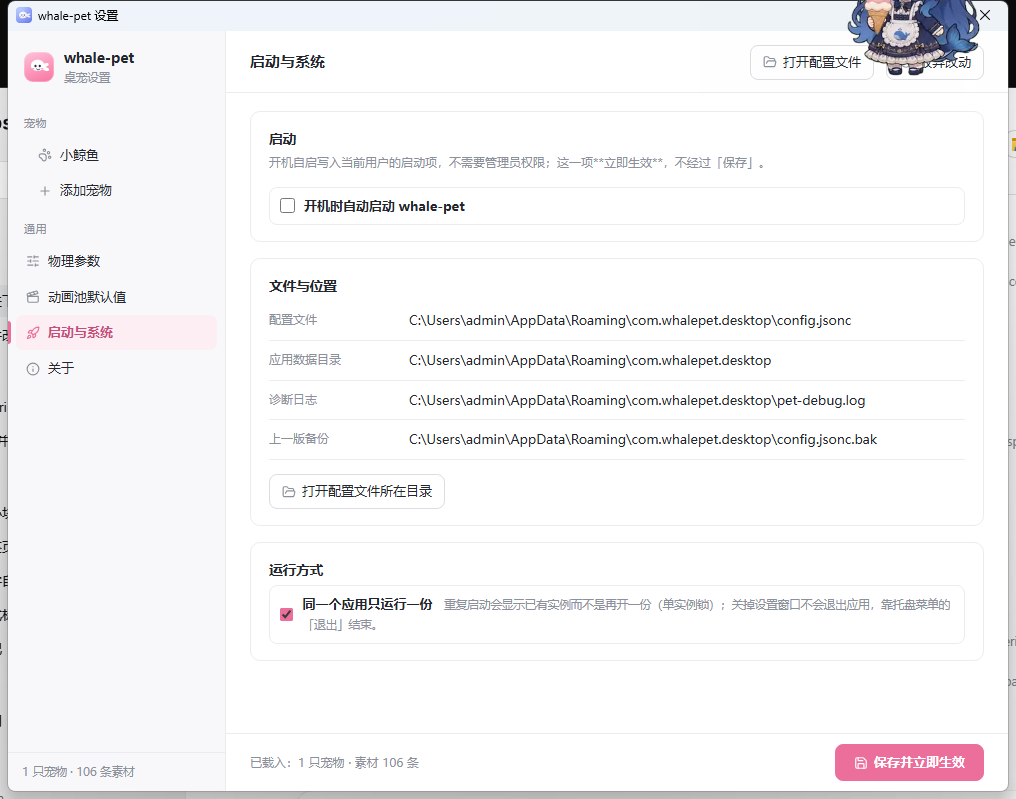
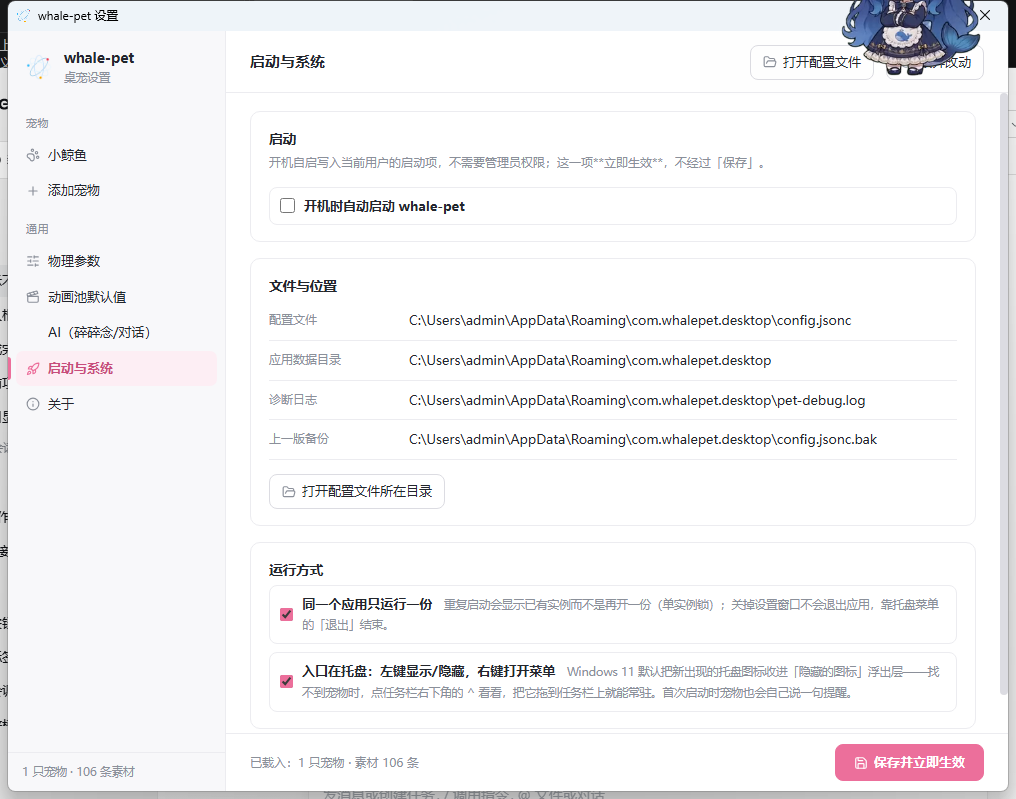
装机体验与打包卫生（A 组四条全做）
① 安装包里剔掉开发工具（MSI 的 File 表实锤 Bin_logic_smoke，1.4 MB，普通用户用不到）
- src/bin/ 下的 logic-smoke.rs 与 mock-llm.rs 整体 git mv 到 examples/：bin 目标会被打包器枚举，
  example 不会（cargo build 默认也不编译它们）；用法只多一个词（cargo run --example …）
- 证据：产物 62.3→61.7 MB（NSIS）/ 63.6→62.8 MB（MSI）；新 wxs 里搜 logic-smoke/mock-llm 无命中，
  同时核对 WebView2Loader.dll 仍在文件列表里（DEVELOPMENT §三 坑 1 没被碰坏）
- 文档里的 --bin 写法（DEVELOPMENT/README）同步改成 --example；历史小节保留原样

② 版本号四处防呆（冒烟新增第 15 组）
- Cargo.toml / tauri.conf.json / package.json / 设置页「关于」那一行必须一致
  （出 1.0.0 时 DEVELOPMENT 里就漏过一处，这类不一致对外可见）
- 正反两面都跑过：正常通过；把 package.json 改成 1.0.1 → 断言失败并打印四处各自的值
- 冒烟总数 114 → 115

③ 首次运行引导（Win11 会把新托盘图标收进「隐藏的图标」，装完容易找不到入口）
- lib.rs::hint_first_run：第一次启动 2.5s 后让宠物用碎碎念那条气泡链路说一句怎么找入口；
  标记文件写在数据目录（first-run-hint，内容=版本号），说出口之后才写（秒退则下次再说），
  排障/自测（WHALE_PET_DIAG*/WHALE_PET_AUTOTEST）时跳过以免跑进探针截图
- 设置 · 启动与系统新增一行「入口在托盘：左键显示/隐藏，右键打开菜单」+ 怎么拖到任务栏常驻
- 证据：日志（首次运行提示已显示 + 气泡: 显示…时长 10000ms）、标记文件内容 1.0.0、二次启动不再提示、
  两张截图（气泡 / 设置页）已进 docs/screenshots

④ 真机装一次包（此前一直是绕过 NSIS 换 exe，三件事都悬着）
- 静默覆盖安装：setup.exe /S /D=D:\software\whale-pet → 退出码 0
- 注册表 DisplayVersion 0.1.0 → 1.0.0（「程序和功能」对上了）；uninstall.exe 重新生成；
  WebView2Loader.dll 由新安装器写入（坑 1 的疑问闭环）；快捷方式仍指向安装目录
- 顺手清掉旧安装留下的 logic-smoke.exe 与之前手工备份的 .old-0.1.0
- 右键菜单生产版观感回归：WHALE_PET_DIAG_PRESS=right + 截图，白底圆角面板正常
  （页面 URL 是 http://tauri.localhost/…，确认跑的是内嵌资源的生产构建）→ 18 节那条闭环

踩坑（都写进 DEVELOPMENT §三 了）
- .NET 的相对路径按「进程工作目录」解析（cd 不影响），WriteAllText($p,$null) 会造出 0 字节文件：
[…]

diff --git a/src/settings-page.ts b/src/settings-page.ts
@@ -813,6 +813,17 @@ function renderSystemPage(): HTMLElement {
       showToast('这一项是固定行为，不需要配置');
     }),
   );
+  single.appendChild(
+    checkRow(
+      true,
+      '入口在托盘：左键显示/隐藏，右键打开菜单',
+      'Windows 11 默认把新出现的托盘图标收进「隐藏的图标」浮出层——找不到宠物时，点任务栏右下角的 ^ 看看，' +
+        '把它拖到任务栏上就能常驻。首次启动时宠物也会自己说一句提醒。',
+      () => {
+        showToast('这一项是固定行为，不需要配置');
+      },
+    ),
+  );
   host.appendChild(single);
   return host;
 }

diff --git a/src-tauri/examples/logic-smoke.rs b/src-tauri/examples/logic-smoke.rs
@@ -1,14 +1,21 @@
 //! 纯逻辑冒烟检查（可执行文件，不依赖 Rust 测试 harness）。
 //!
-//! 为什么要单独做这么一个 bin：
+//! 为什么要单独做这么一个工具：
 //!   本机是 MinGW-w64 + `x86_64-pc-windows-gnu` 工具链，`cargo test` 生成的 libtest
 //!   可执行文件在启动时会被 Windows 加载器拒绝（`0xC0000139 STATUS_ENTRYPOINT_NOT_FOUND`），
 //!   而同一个 crate 编出来的主程序能正常运行——导入表逐项比对完全一致，属于工具链/环境
 //!   层面的问题，不是代码问题。为了让「配置解析、校验、路径防穿越、几何换算」这些纯逻辑
-//!   **真的被执行到**（而不是只通过编译），这里用普通 bin 把它们跑一遍。
+//!   **真的被执行到**（而不是只通过编译），这里用普通程序把它们跑一遍。
 //!
-//! 运行：cargo run --bin logic-smoke
+//! 运行：cargo run --example logic-smoke
 //! 退出码：0 = 全部通过；1 = 有失败（并打印失败项）
+//!
+//! ## 为什么放在 `examples/` 而不是 `src/bin/`
+//!
+//! 它和 `mock-llm` 原先都是 bin 目标，结果 **`logic-smoke.exe` 被 Tauri 一起打进了
+//! 安装包**（MSI 的 File 表里能查到 `Bin_logic_smoke`，1.4 MB）——普通用户拿到一个
+//! 不知道干什么的 exe，既占体积又容易被杀软盯上。改成 example 之后 `cargo build`
+//! 默认**不编译**它们，打包自然也就带不上了（用法只多了 `--example` 这个词）。
 
 use whale_pet_desktop_lib::config::{load_config, AppConfig};
 use whale_pet_desktop_lib::model::{PhysicsParams, Rect};
@@ -797,12 +804,54 @@ fn main() {
         );
     }
 
+    // ---- 15. 版本号四处一致 ----
+    // 版本号写在四个地方，出包用的是 tauri.conf.json、界面上显示的是 settings-page.ts 那一行，
+    // 少改一处就会出现"安装包叫 1.0.0、关于页写着 0.1.0"这种对外可见的不一致。
+    // （2026-09-21 出 1.0.0 时真发生过：DEVELOPMENT 里也漏了一处，见 VERIFICATION 第 23/24 节。）
+    println!("\n[15] 版本号四处一致");
+    {
+        let manifest = env!("CARGO_MANIFEST_DIR");
+        let cargo_version = env!("CARGO_PKG_VERSION").to_string();
+        let tauri_version = read_json_field(&format!("{manifest}/tauri.conf.json"), "version");
+        let pkg_version = read_json_field(&format!("{manifest}/../package.json"), "version");
+        let ui_version = std::fs::read_to_string(format!("{manifest}/../src/settings-page.ts"))
+            .ok()
+            .and_then(|text| {
+                // 界面上那一行长这样：el('strong', undefined, 'whale-pet 1.0.0')
+                // 注意别抓到别处的 `'whale-pet …'`（"关于"页的描述文案也以它开头），
+                // 所以要求引号里剩下的部分**以数字开头**（版本号）
+                text.lines().find_map(|line| {
+                    let rest = line.split("'whale-pet ").nth(1)?;
+                    let value = rest.split('\'').next()?;
+                    value.starts_with(|c: char| c.is_ascii_digit()).then(|| value.to_string())
+                })
+            });
+
+        check(
+            "Cargo.toml / tauri.conf.json / package.json / 关于页 四处版本号一致",
+            tauri_version.as_deref() == Some(cargo_version.as_str())
+                && pkg_version.as_deref() == Some(cargo_version.as_str())
+                && ui_version.as_deref() == Some(cargo_version.as_str()),
+            &format!(
+                "Cargo.toml={cargo_version} tauri.conf.json={:?} package.json={:?} 关于页={:?}（改版本号要四处一起改）",
+                tauri_version, pkg_version, ui_version
+            ),
+        );
+    }
+
     // SAFETY: 单线程
     let (passed, failed) = unsafe { (PASSED, FAILED) };
     println!("\n=== 结果：通过 {passed} 项，失败 {failed} 项 ===");
     if failed > 0 {
         std::process::exit(1);
     }
+}
+
+/// 从 JSON 文件里取一个**顶层**字符串字段（版本号用；失败返回 None，由断言报出来）
+fn read_json_field(path: &str, field: &str) -> Option<String> {
+    let text = std::fs::read_to_string(path).ok()?;
+    let value: serde_json::Value = serde_json::from_str(&text).ok()?;
+    value.get(field)?.as_str().map(str::to_string)
 }
 
 /// 规范化 JSON：递归按键名排序后序列化。

diff --git a/src-tauri/src/lib.rs b/src-tauri/src/lib.rs
@@ -302,9 +302,14 @@ match config::ensure_sample_animations(&app_data_dir) {
     reload::mark_stamp_current(&config_path);
     eprintln!("[whale-pet] 配置热重载已就绪（每 {}ms 检查一次文件变化）", reload::POLL_MS);
 
+    // ---- 5.7 首次运行提示（**只提示一次**）----
+    // 装完最常见的问题是"宠物在跑，但不知道入口在哪"：托盘是桌宠唯一的常驻入口，
+    // 而 Win11 默认把新图标收进「隐藏的图标」浮出层——用户对着桌面找半天。
+    // 所以第一次启动让宠物自己说一句（复用碎碎念那条气泡链路，不联网）。
+    hint_first_run(app);
+
     // ---- 6. 轮询线程（光标采样 + 显示器几何 + 配置热重载） ----
-    spawn_poll_loop(app.clone());
-    // ---- 6.5 主线程健康看门狗（**独立线程**：轮询线程自己也可能是被卡住的那个，见 watchdog.rs） ----
+    spawn_poll_loop(app.clone());    // ---- 6.5 主线程健康看门狗（**独立线程**：轮询线程自己也可能是被卡住的那个，见 watchdog.rs） ----
     watchdog::spawn_main_watchdog(app.clone());
 
     // ---- 7. 排障探针（仅在设置 WHALE_PET_DIAG_PRESS 时启用，见 diagnostics 里的说明） ----
@@ -406,6 +411,52 @@ match config::ensure_sample_animations(&app_data_dir) {
 /// 与"持锁期间为什么绝不能动窗口"两条约定。
 fn build_tray(app: &AppHandle) -> Result<(), Box<dyn std::error::Error>> {
     tray::build(app)
+}
+
+/// 首次运行提示写下的标记文件名（在应用数据目录里；内容 = 当时的版本号）
+const FIRST_RUN_HINT_FILE: &str = "first-run-hint";
+
+/// 首次运行提示的文案：一句话说清"入口在哪"。
+///
+/// 气泡按 16 字一行估算尺寸（`bubble::estimate`），这句约 3 行、宽度不会顶到上限。
+const FIRST_RUN_HINT_TEXT: &str =
+    "我在这儿～右下角托盘里的图标就是我：左键显示/隐藏，右键菜单。Win11 可能把我收进「隐藏的图标」";
+
+/// 第一次启动时让宠物说一句"我在托盘里"（**只一次**，见调用处的说明）。
+///
+/// 三个刻意的取舍：
+///   - 标记文件写在**数据目录**而不是配置里：配置是用户的东西（会被手改、会被重置成模板），
+///     混一个"看没看过提示"的字段进去不合适；标记丢了最多再提示一次，无害；
+///   - 标记在**说出口之后**才写：2.5 秒内就退出（比如秒退）的话，下次还会提示一次——
+///     宁可重复一次，也别让用户永远看不到；
+///   - 提示**不参与排障/自测**：那些场景跑的是同一套窗口，气泡会跑进截图里。
+fn hint_first_run(app: &AppHandle) {
+    let probing = std::env::vars()
+        .any(|(key, _)| key.starts_with("WHALE_PET_DIAG") || key.starts_with("WHALE_PET_AUTOTEST"));
+    let marker = app.state::<AppState>().app_data_dir.join(FIRST_RUN_HINT_FILE);
+    if probing || marker.is_file() {
+        return;
+    }
+    let Some(label) = app
+        .state::<AppState>()
+        .pets
+        .lock()
+        .map(|pets| pets.keys().next().cloned())
+        .unwrap_or(None)
+    else {
+        return; // 没有宠物可说话（正常配置下不会发生）
+    };
+
+    let handle = app.clone();
+    std::thread::spawn(move || {
+        // 等宠物页导航完成：气泡窗是预建的，但页面没就绪的话这一句会被丢掉
+        std::thread::sleep(std::time::Duration::from_millis(2500));
+        crate::whisper::emit(&handle, &label, FIRST_RUN_HINT_TEXT, None);
+        match std::fs::write(&marker, env!("CARGO_PKG_VERSION")) {
+            Ok(()) => eprintln!("[whale-pet] 首次运行提示已显示（标记写入 {}）", marker.display()),
+            Err(err) => eprintln!("[whale-pet] 写首次运行标记失败 {}：{err}", marker.display()),
+        }
+    });
 }
 
 /// 启动轮询线程：光标采样（穿透自愈 + 拖拽兜底）、显示器几何变化检测、配置热重载。

diff --git a/src-tauri/examples/mock-llm.rs b/src-tauri/examples/mock-llm.rs
@@ -3,9 +3,12 @@
 //! 用法：
 //!
 //! ```powershell
-//! cargo run --bin mock-llm            # 默认监听 127.0.0.1:8787
-//! cargo run --bin mock-llm -- 9000    # 指定端口
+//! cargo run --example mock-llm            # 默认监听 127.0.0.1:8787
+//! cargo run --example mock-llm -- 9000    # 指定端口
 //! ```
+//!
+//! （放在 `examples/` 而不是 `src/bin/`：bin 目标会被 Tauri 打进安装包——
+//! `logic-smoke.exe` 就这么进过一次，见那个文件头部的说明。）
 //!
 //! 然后把配置指向它，即可**不花一分钱、不需要真实 key** 跑通整条链路：
 //!

diff --git a/docs/screenshots/README.md b/docs/screenshots/README.md
@@ -27,6 +27,8 @@ powershell -NoProfile -ExecutionPolicy Bypass -File scripts\capture-window.ps1 -
 | `tray-menu-picker.png` | 托盘菜单 · 动作点播：**分类默认全部收起**，右侧显示每个分类的条数 |
 | `tray-menu-picker-expanded.png` | 托盘菜单 · 点开「待机」之后：只展开被点的分类，窗口自动变高 |
 | `tray-menu-toast.png` | 托盘菜单 · **失败提示完整可见**（点「查余额」时 AI 未开启 → 两行提示都在面板里，见 VERIFICATION 21 节） |
+| `menu-production.png` | **生产构建里的宠物右键菜单**（release exe + 合成右键探针）：白底圆角面板正常渲染——18 节的 `style-src` nonce 问题在生产构建上回归通过 |
+| `first-run-hint.png` | **首次启动的托盘提示**：宠物头顶气泡说出"入口在右下角托盘"，只在第一次启动出现（见 VERIFICATION 24 节） |
 | `settings-dark.png` | 设置窗口 · **深色**（`?theme=dark` 强制；默认仍跟随系统） |
 | `tray-menu-dark.png` | 托盘菜单 · **深色**（同上） |
 | `icon-sizes.png` | **当前应用图标的全尺寸阶梯**（从 `icon.ico` 里逐帧提取：16/24/32/48/64/128/256，浅色/深色两种底） |
